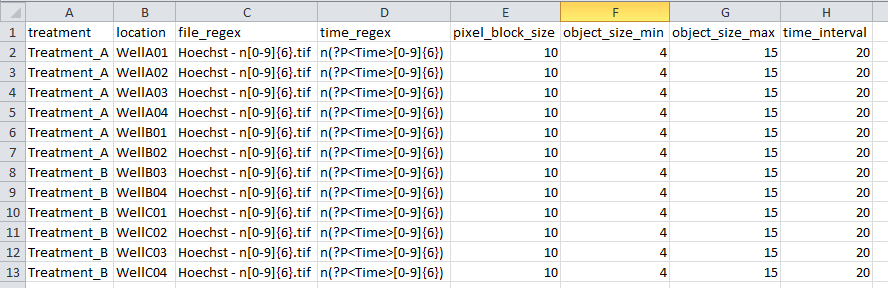
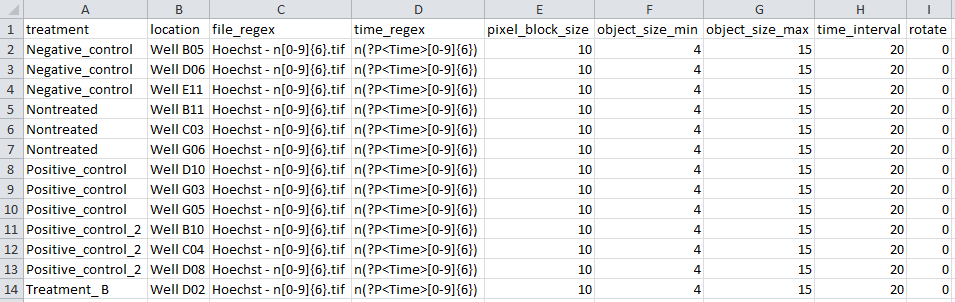
update docs for rotate column

diff --git a/docs/file_formats.md b/docs/file_formats.md
@@ -27,6 +27,7 @@ The index file has the following structure:
 | object_size_min  | The minimum object size (in pixels)                                       |
 | object_size_max  | The maximum object size (in pixels)                                       |
 | time_interval    | The time (in minutes) between images                                      |
+| rotate           | The images will be rotated (clockwise) by this many degrees (optional)    |
   
 Here is the index file associated with the zip created in the previous section:  
 ![file formats index](img/file_formats_index.png)  

diff --git a/docs/index.md b/docs/index.md
@@ -4,7 +4,7 @@ Kinetic Re-Epithelialization Analysis Pipeline
 
 ## [](#header-2)Getting Started
 
-Download the VM from [here](https://bioinf-galaxian.erasmusmc.nl/owncloud/index.php/s/l1Vc8voOdhlJXrl/download).  
+Download the VM from [here](https://bioinf-galaxian.erasmusmc.nl/owncloud/index.php/s/orwOcp2gigftAtw/download).  
 Set up Oracle [VirtualBox](https://www.virtualbox.org/) (Help: [Windows](virtual_box_setup_windows), [Mac](virtual_box_setup_mac))
 
 ## [](#header-3)Import the KREAP VM

diff --git a/docs/setup_kreap.md b/docs/setup_kreap.md
@@ -1,6 +1,6 @@
 # [](#header-1)Download the KREAP VM
 
-Download the [KREAP](https://bioinf-galaxian.erasmusmc.nl/owncloud/index.php/s/jWpkIJJ8q3kS3bX/download) VM. sdfwefsd
+Download the [KREAP](https://bioinf-galaxian.erasmusmc.nl/owncloud/index.php/s/orwOcp2gigftAtw/download) VM.
 
 ## [](#header-2)Extract the zip
 
